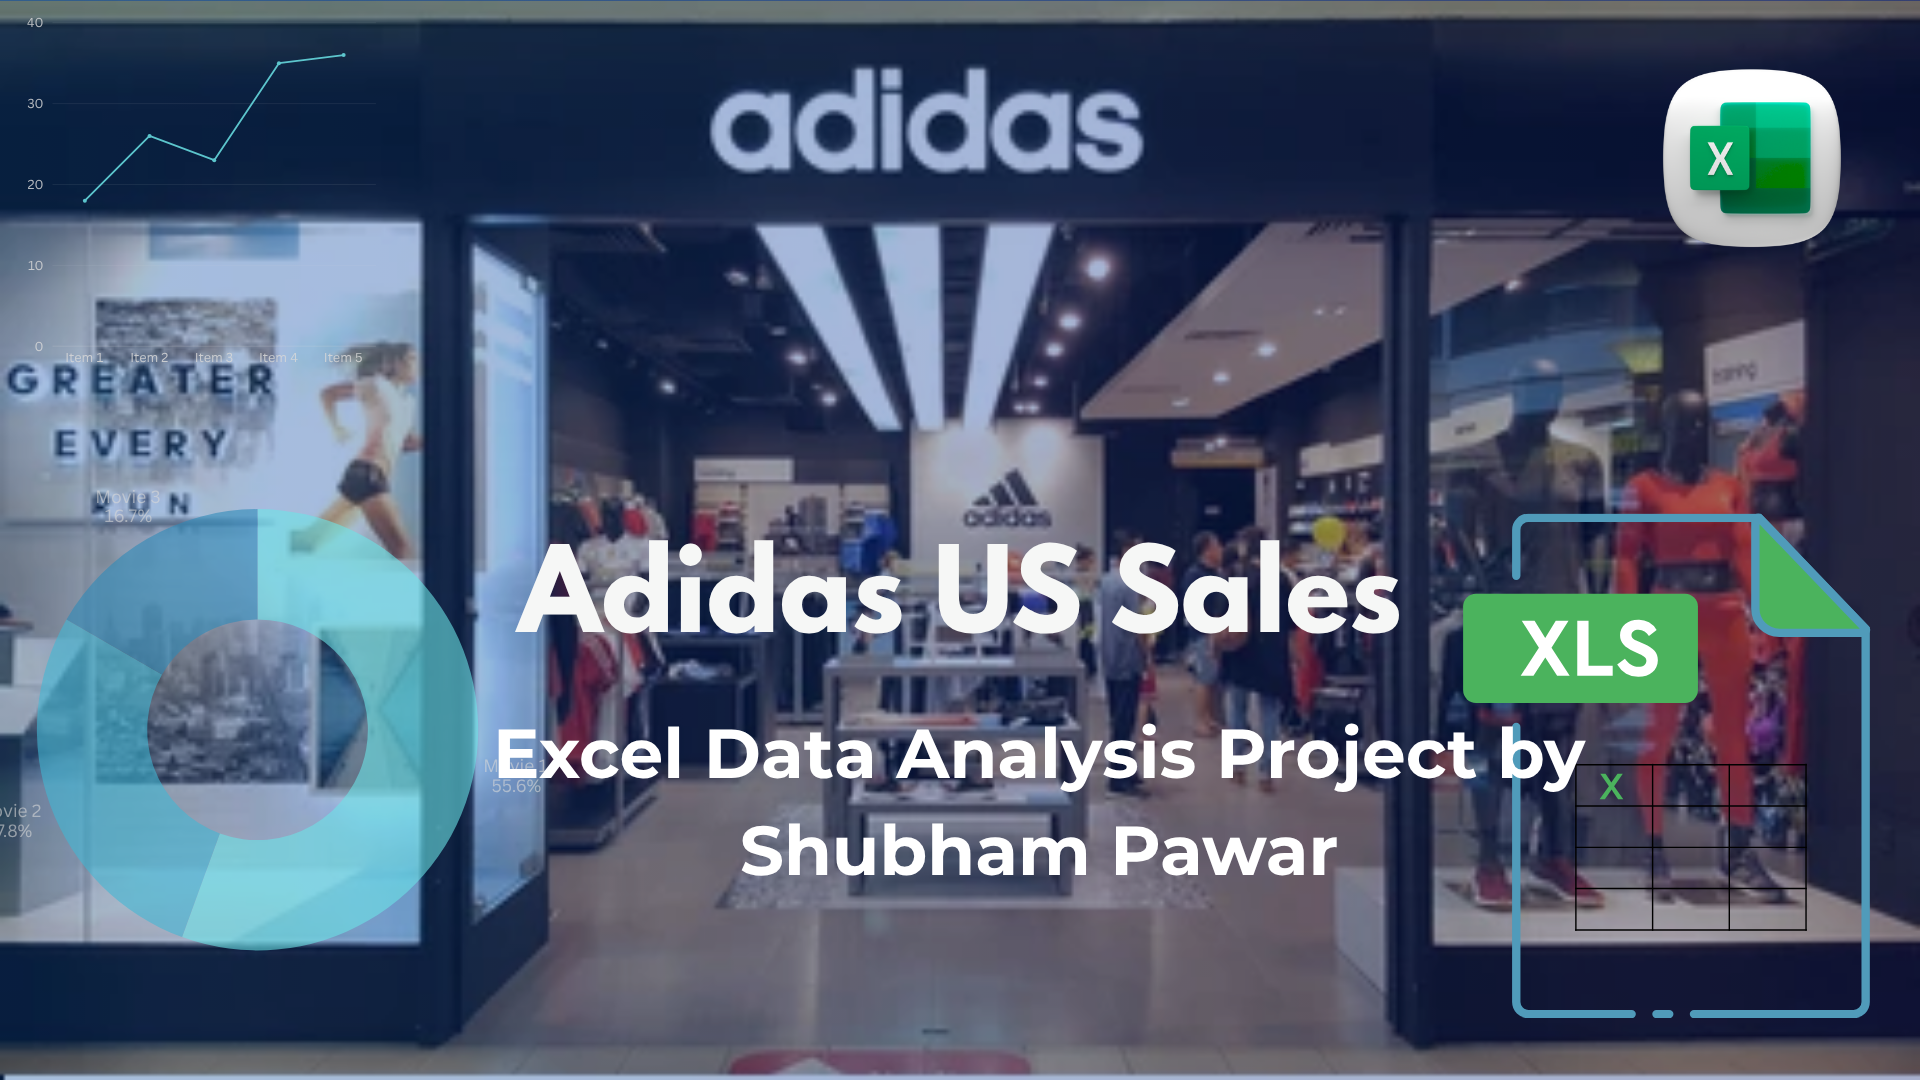
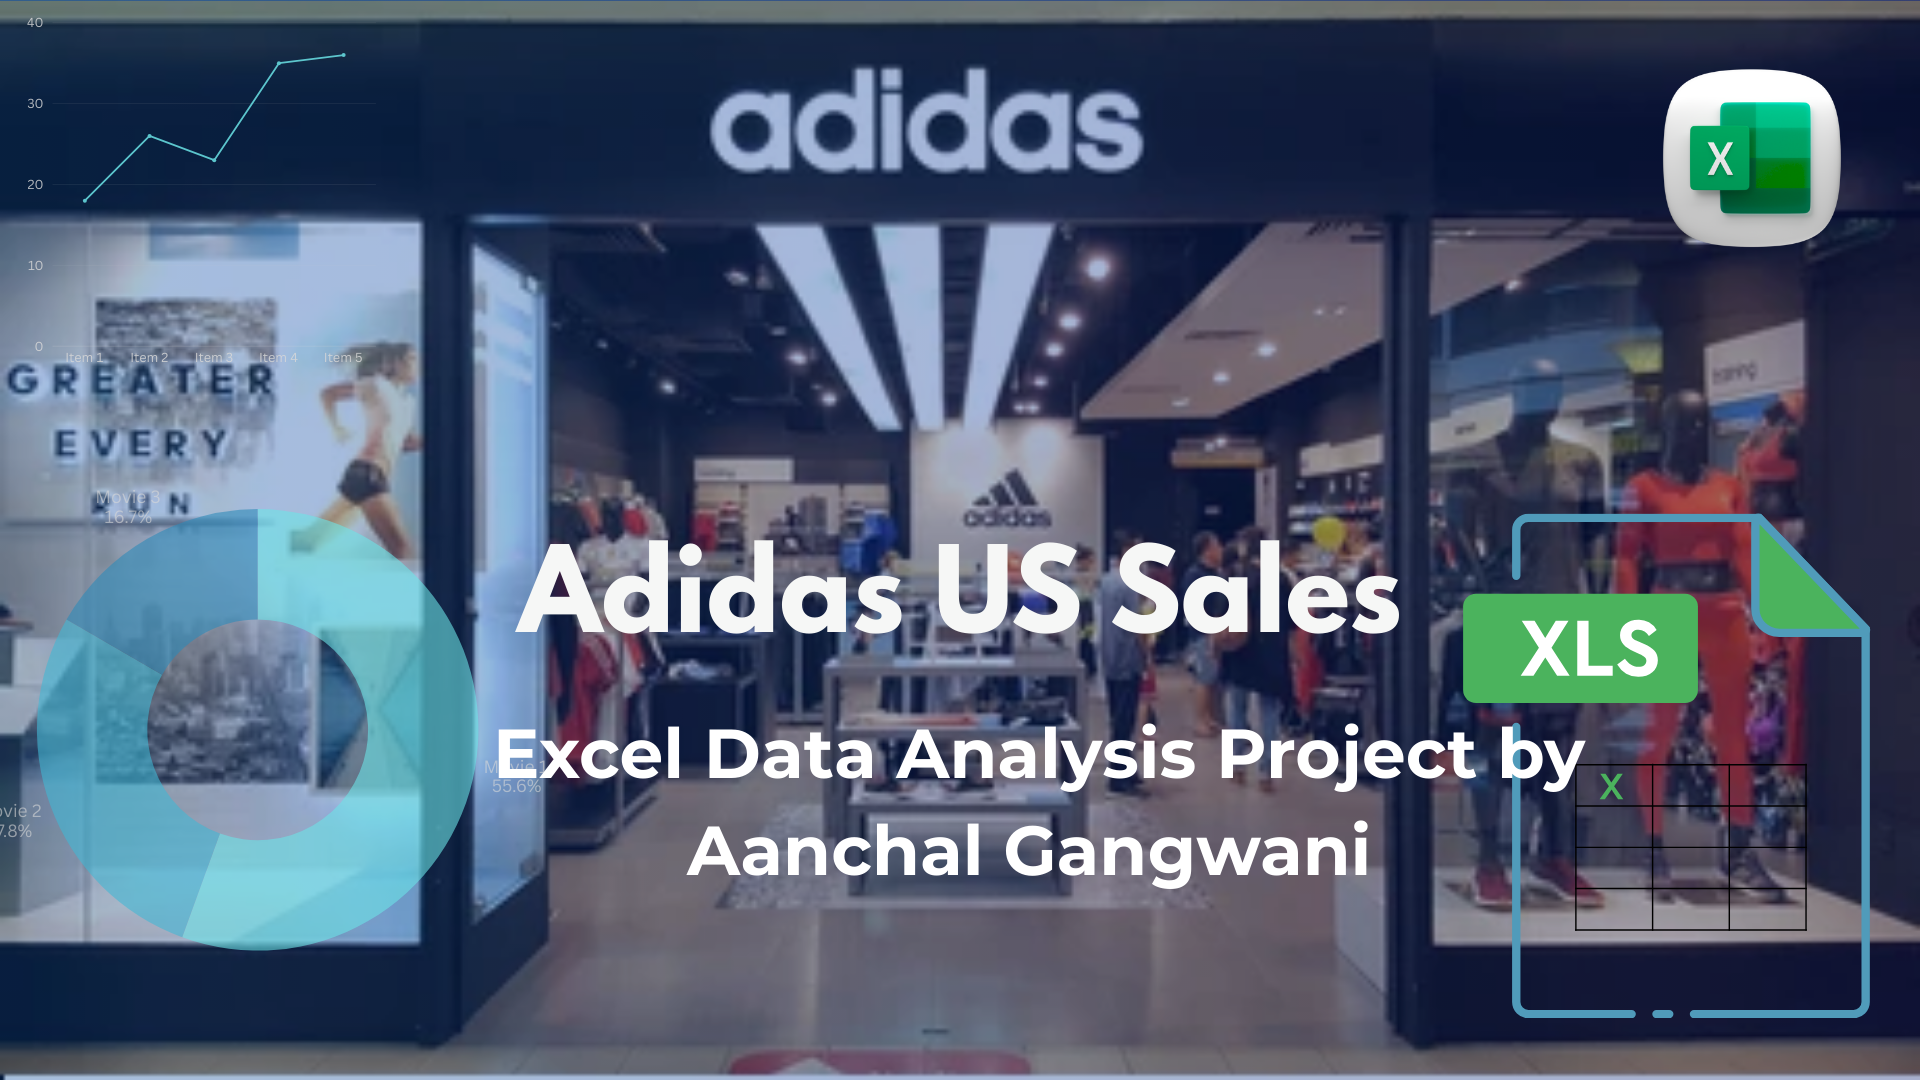
Updated readme.

Changed region(s): [[0.3438, 0.7639, 0.7188, 0.825]]

diff --git a/README.md b/README.md
@@ -1,7 +1,7 @@
-# 👟 Excel Data Analysis Project by Shubham Pawar
+# 👟 Excel Data Analysis Project by Aanchal Gangwani
 
 ## 📊 Adidas US Sales Dashboard  
-![Adidas Banner](https://github.com/mjshubham21/Excel_Adidas_US_Sales/blob/main/Images/Banner.png)
+![Adidas Banner](https://github.com/aanchalgangwani1307/excel_Adidas_DA/blob/main/Images/Banner.png)
 
 ---
 
@@ -12,7 +12,7 @@ This project presents a detailed **Adidas Sales Dashboard** analyzing sales data
 
 ## 🛠 Tool Used  
 <p align="center">
-  <img src="https://github.com/mjshubham21/Excel_Adidas_US_Sales/blob/main/Images/microsoft-excel.png" alt="Microsoft Excel Logo" width="150"/>
+  <img src="https://github.com/aanchalgangwani1307/excel_Adidas_DA/blob/main/Images/microsoft-excel.png" alt="Microsoft Excel Logo" width="150"/>
 </p>  
 The entire analysis and dashboard were created using **Microsoft Excel 2021**, utilizing:
 - Pivot Tables
@@ -25,7 +25,7 @@ The entire analysis and dashboard were created using **Microsoft Excel 2021**, u
 
 ## 📁 Dataset  
 You can view the dataset used in this project here:  
-🔗 [Adidas US Sales Dataset (Excel)](https://github.com/mjshubham21/Excel_Adidas_US_Sales/blob/main/Adidas%20US%20Sales_DATASET.xlsx)
+🔗 [Adidas US Sales Dataset (Excel)](https://github.com/aanchalgangwani1307/excel_Adidas_DA/blob/main/Adidas%20US%20Sales_DATASET.xlsx)
 
 ---
 
@@ -73,4 +73,4 @@ You can view the dataset used in this project here:
 ---
 
 ## 📎 Dashboard Snapshot  
-![Dashboard Screenshot](https://github.com/mjshubham21/Excel_Adidas_US_Sales/blob/main/Images/dashboard1.png)
+![Dashboard Screenshot](https://github.com/aanchalgangwani1307/excel_Adidas_DA/blob/main/Images/dashboard1.png)
